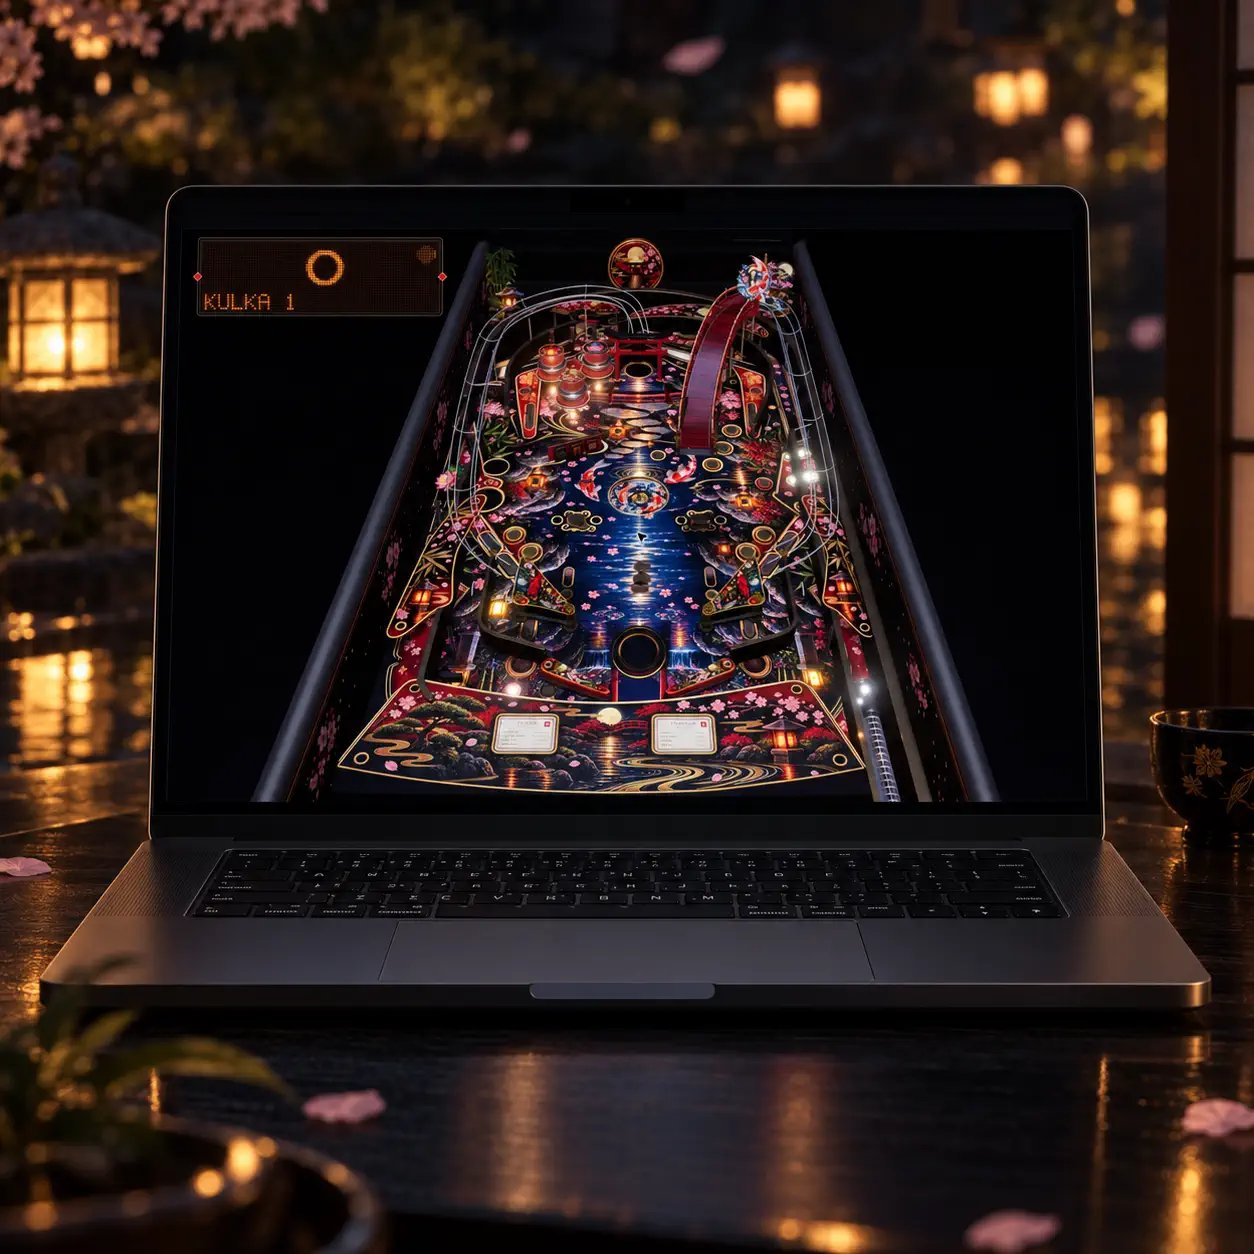
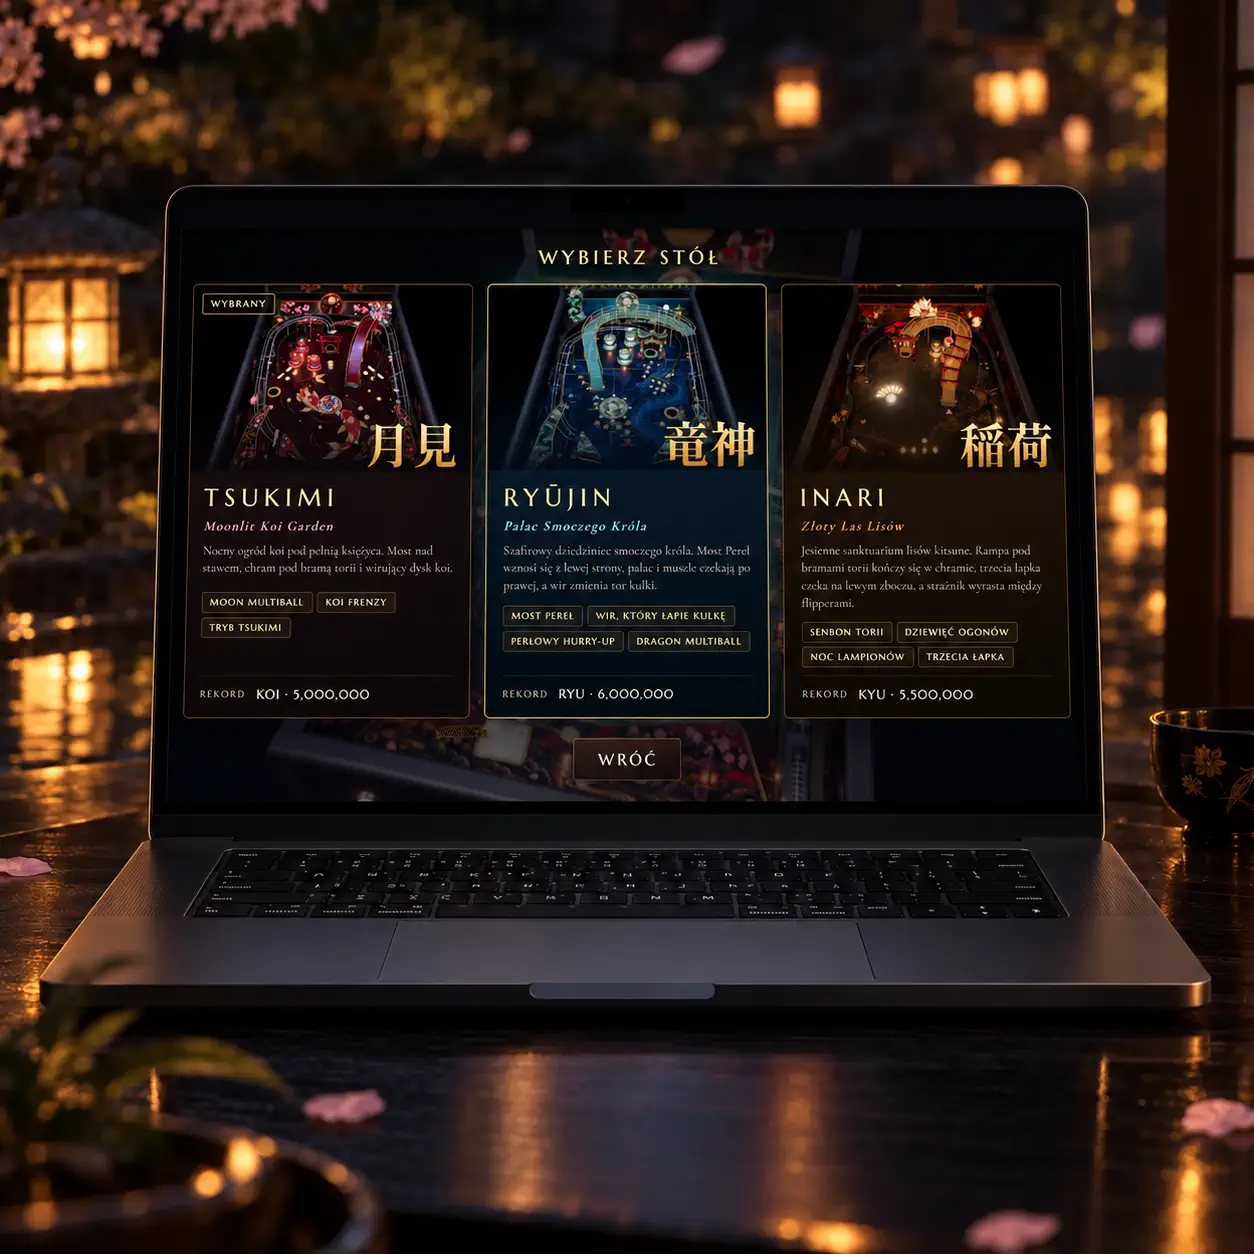
feat(projects): update Japanese 3D pinball collection

diff --git a/src/data/projects.ts b/src/data/projects.ts
@@ -76,14 +76,14 @@ export const projects: Project[] = [
   },
   {
     id: 'tsukimi-pinball-3d',
-    title: '月見 TSUKIMI — Moonlit Koi Garden',
+    title: 'TSUKIMI · RYŪJIN · INARI — 3D Pinball',
     description: {
-      pl: 'Trójwymiarowy pinball w nocnym ogrodzie koi: autorska fizyka 2400 Hz, rampy i druciane tory, Moon Multiball, jackpoty oraz adaptacyjna muzyka.',
-      en: 'A 3D pinball game set in a moonlit koi garden, with custom 2400 Hz physics, ramps and wireforms, Moon Multiball, jackpots and adaptive music.',
+      pl: 'Kolekcja trzech pinballowych stołów 3D: księżycowy ogród koi, pałac Smoczego Króla i złoty las lisów. Każdy ma własny układ, zasady, muzykę oraz tabelę rekordów.',
+      en: 'A collection of three 3D pinball tables: a moonlit koi garden, the Dragon King’s palace and a golden fox forest. Each has its own layout, rules, music and high-score table.',
     },
     image: '/tsukimi_pinball_mockup.webp',
     link: 'https://apkmason.dev/pinball-3d/',
-    tags: ['Three.js', '3D pinball', 'Custom physics'],
+    tags: ['Three.js', 'Three tables', 'Custom physics'],
     category: 'app',
     accent: '#e0a645',
   },
